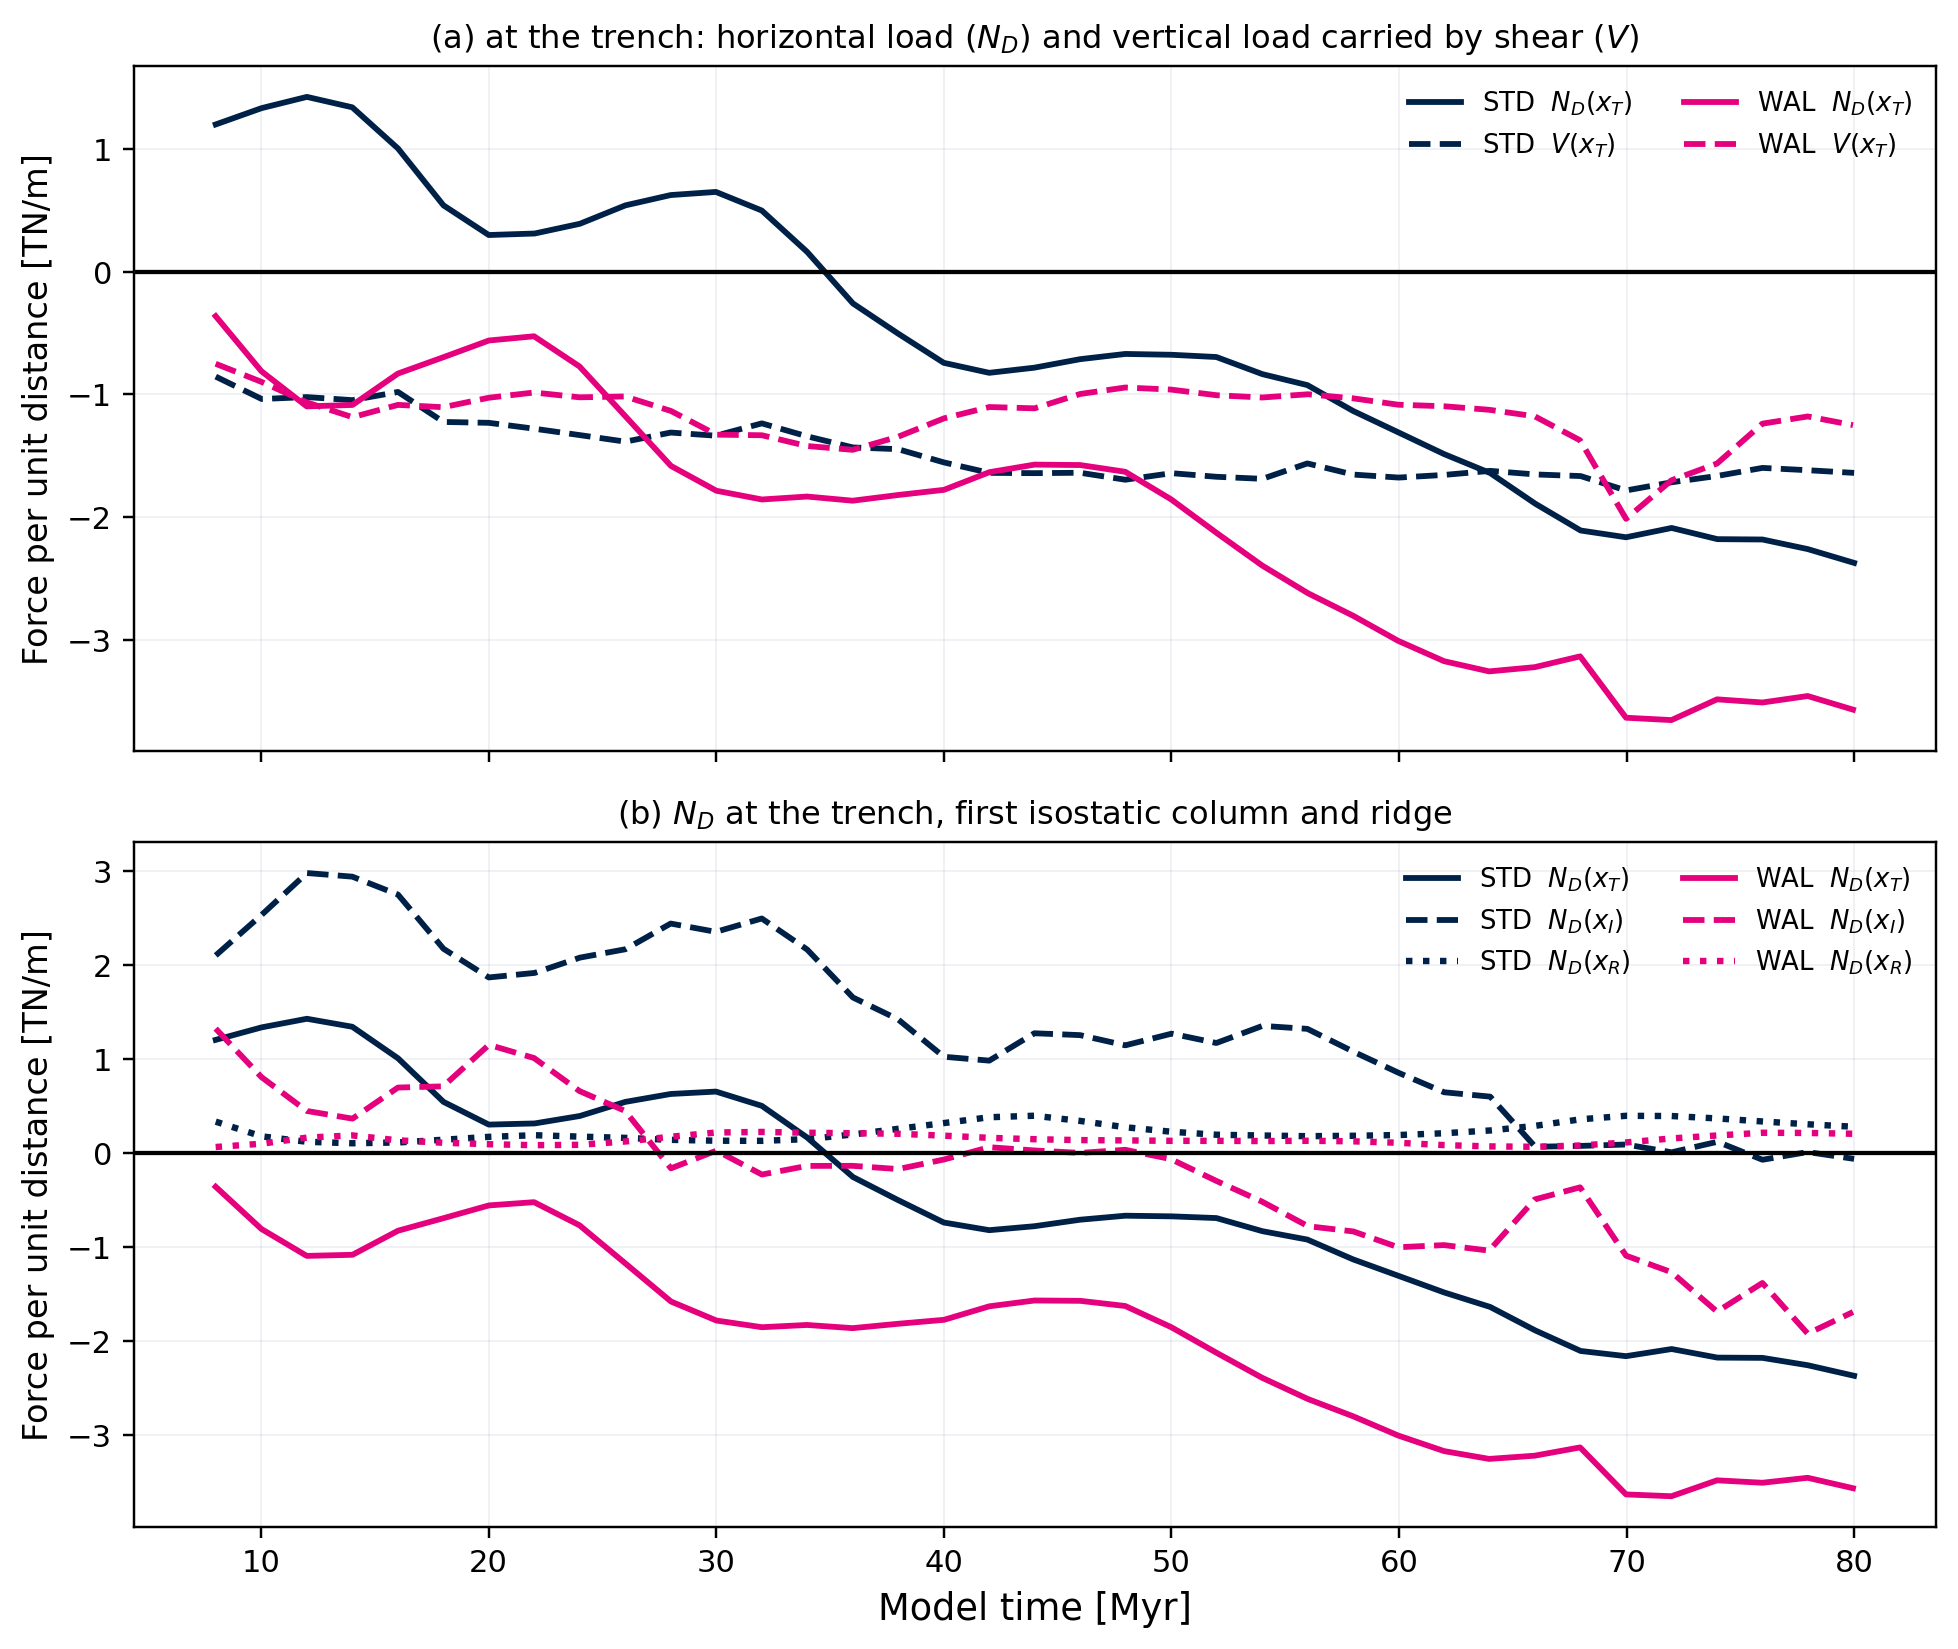
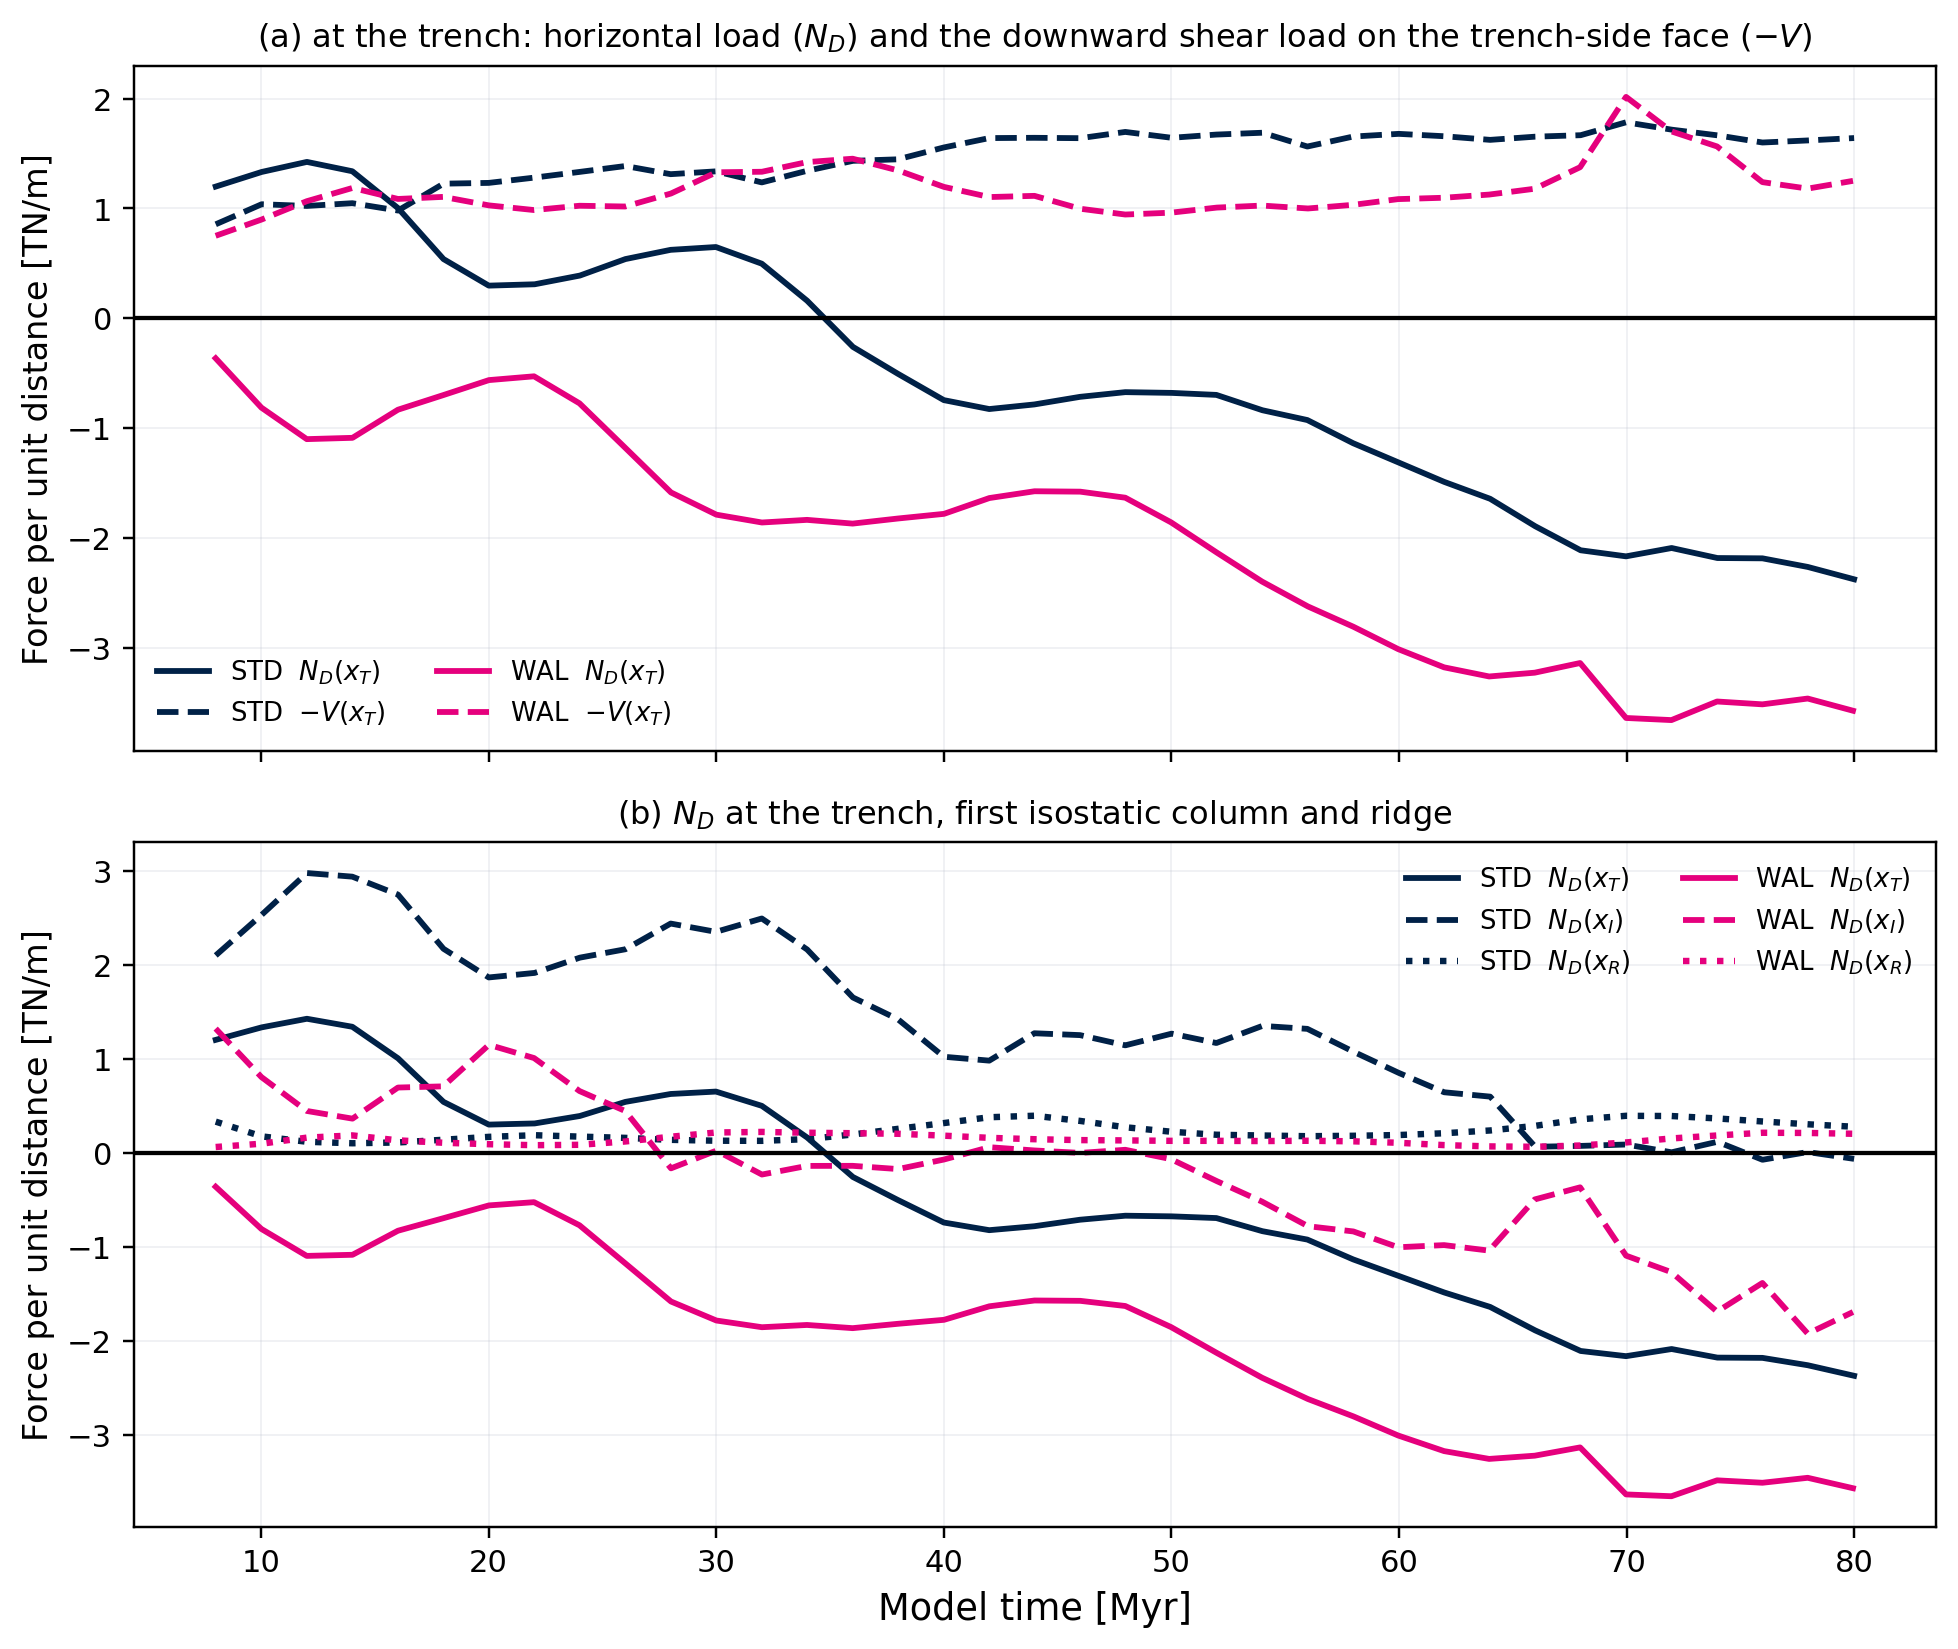
fig_trench_resultants: plot the trench-face shear load (-V), not V
A resultant's sign only means something once paired with the outward
normal of the plane it acts on. In the mirrored analysis frame the
subducting plate lies seaward at x > x_T, so the trailing plate's
trench-side face has outward normal -x and carries -V, positive downward.
That is the quantity with physical content -- the downward load the slab
applies at the trench -- and plotting V itself showed a negative curve
for a downward pull, which reads backwards.

Medians become +1.60 (STD) / +1.11 (WAL) TN/m. The extracted V is
untouched; only the displayed sign changes, and the table rows are now
named shear_load_trench_face_down rather than v_trench, so the two
senses cannot be quoted interchangeably (and no longer collide with
fig_plate_velocities' v_trench, a migration velocity). Both senses are
recorded in the table metadata.

This also squares the display with the companion register, which defines
V as positive at the trench (SYMBOLOGY 7.5). The deeper fix -- un-mirror
the analysis back to the source study's native frame, where the trailing
plate moves in +x and V is positive at the trench by construction -- was
considered and deferred by Dan on 2026-09-21; the docstring records it as
the clean option if the frame is ever revisited.

diff --git a/scripts/fig_trench_resultants.py b/scripts/fig_trench_resultants.py
@@ -6,33 +6,50 @@ column_profiles_cache.resultants(). Consolidated 2026-09-21 per Dan: this
 figure absorbs what fig_nd_trench_ridge carried, and the bending moment
 moves to the SI (fig_trench_moment).
 
-  (a) N_D and V at the TRENCH. Together these show the partition at the
+  (a) N_D and -V at the TRENCH. Together these show the partition at the
       trench column between the vertical load supported by shear stress
-      (V) and the horizontal load transmitted by the slab (N_D) -- the
+      and the horizontal load transmitted by the slab (N_D) -- the
       comparison that matters for the conventional slab-pull expectation.
   (b) N_D at the TRENCH, the FIRST ISOSTATIC COLUMN and the RIDGE. The
       trench curve repeats from (a) deliberately, so the change between
       columns can be read through time.
 
+WHY -V AND NOT V (Dan's ruling, 2026-09-21). V = int tau_zx dz is a
+resultant, and a resultant's sign is only meaningful once paired with the
+outward normal of the plane it acts on (SYMBOLOGY §4.6). In the mirrored
+analysis frame the subducting plate lies seaward at x > x_T, so the
+trailing plate's trench-side face has outward normal -x, and the shear
+traction it carries is -V, positive downward in the z-down frame. That is
+the physically meaningful quantity here -- the downward load the slab
+applies to the trailing plate at the trench -- and it is what is plotted.
+Plotting V itself gives a negative curve for a downward pull, which reads
+backwards.
+
+This also reconciles the display with the companion register, which
+defines V as positive at the trench (SYMBOLOGY §7.5). The repo keeps its
+own V in the frame it extracts in; only the sign shown here is flipped,
+and the table rows are named for the face load, not for V, so nothing
+downstream can quote the two senses interchangeably. The alternative --
+un-mirroring the whole analysis back to the source study's native frame,
+where V is positive at the trench by construction -- was considered and
+deferred on 2026-09-21; it remains the clean fix if the frame is ever
+revisited.
+
 Run medians (t >= 8 Myr): N_D is -0.70 (STD) / -1.83 (WAL) TN/m at the
 trench, +1.27 / -0.14 at the first isostatic column and +0.19 / +0.13 at
-the ridge; V at the trench is -1.60 / -1.11.
+the ridge; the downward shear load at the trench face is +1.60 / +1.11.
 
 Styling per FIGURE_STYLE.md: model by brand colour, quantity or column by
 linestyle.
 
-Register note on V (SYMBOLOGY §7.5): the plotted V is the extracted
-V = int tau_zx dz at the trench column -- the repo's engineering sense,
-which is the NEGATIVE of the companion register's V. Any prose quoting a
-V relation must say which V it means.
-
 DRAFT CAPTION. Stress resultants through the runs for STD (navy) and WAL
 (magenta). (a) At the trench column, the normal-stress-difference
-resultant N_D (solid) and the vertical shear resultant V (dashed): the
-horizontal load transmitted along the plate against the vertical load
-carried by shear. (b) N_D at the trench (solid), the first isostatic
-column (dashed) and the ridge (dotted), showing how the resultant changes
-between columns through time.
+resultant N_D (solid) and the downward shear load carried by the
+trailing plate's trench-side face, -V (dashed): the horizontal load
+transmitted along the plate against the vertical load carried by shear.
+(b) N_D at the trench (solid), the first isostatic column (dashed) and
+the ridge (dotted), showing how the resultant changes between columns
+through time.
 """
 import os, sys
 import numpy as np
@@ -59,17 +76,22 @@ def main():
         t = r['t']
         m = t >= T_MIN_MYR
         kw = dict(color=col, lw=1.9)
+        # the shear load on the trailing plate's trench-side face (outward
+        # normal -x), positive downward -- see the module docstring
+        face_load = -r['v_T']
         axes[0].plot(t[m], r['nd_T'][m] * 1e-12, '-', label=f'{key}  $N_D(x_T)$', **kw)
-        axes[0].plot(t[m], r['v_T'][m] * 1e-12, '--', label=f'{key}  $V(x_T)$', **kw)
+        axes[0].plot(t[m], face_load[m] * 1e-12, '--', label=f'{key}  $-V(x_T)$', **kw)
         axes[1].plot(t[m], r['nd_T'][m] * 1e-12, '-', label=f'{key}  $N_D(x_T)$', **kw)
         axes[1].plot(t[m], r['nd_I'][m] * 1e-12, '--', label=f'{key}  $N_D(x_I)$', **kw)
         axes[1].plot(t[m], r['nd_R'][m] * 1e-12, ':', label=f'{key}  $N_D(x_R)$',
                      color=col, lw=2.1)
         med = lambda a: np.median(a[m]) / 1e12
         print(f'{key}: N_D trench {med(r["nd_T"]):+.2f}, x_I {med(r["nd_I"]):+.2f}, '
-              f'ridge {med(r["nd_R"]):+.2f} TN/m; V trench {med(r["v_T"]):+.2f}')
+              f'ridge {med(r["nd_R"]):+.2f} TN/m; downward shear load at the '
+              f'trench face {med(face_load):+.2f} (extracted V {med(r["v_T"]):+.2f})')
         for name, arr in (('nd_trench', r['nd_T']), ('nd_first_isostatic', r['nd_I']),
-                          ('nd_ridge', r['nd_R']), ('v_trench', r['v_T'])):
+                          ('nd_ridge', r['nd_R']),
+                          ('shear_load_trench_face_down', face_load)):
             a = arr[m] / 1e12
             rows += [(key, f'{name}_median_TNm', f'{np.median(a):.3f}'),
                      (key, f'{name}_q1_TNm', f'{np.percentile(a, 25):.3f}'),
@@ -80,8 +102,8 @@ def main():
                   str(bool((r['nd_R'][m] > 0).all()))),
                  (key, 'abs_v_over_abs_nd_trench_median',
                   f'{np.median(np.abs(v_t) / np.abs(nd_t)):.2f}')]
-    axes[0].set_title('(a) at the trench: horizontal load ($N_D$) and vertical '
-                      'load carried by shear ($V$)', fontsize=10.5)
+    axes[0].set_title('(a) at the trench: horizontal load ($N_D$) and the downward '
+                      'shear load on the trench-side face ($-V$)', fontsize=10.5)
     axes[1].set_title('(b) $N_D$ at the trench, first isostatic column and ridge',
                       fontsize=10.5)
     axes[1].set_xlabel('Model time [Myr]', fontsize=12)
@@ -98,8 +120,13 @@ def main():
                       script='fig_trench_resultants.py',
                       figure='fig_trench_resultants.png', models=('STD', 'WAL'),
                       meta={'zc_km': cpc.ZC_KM, 't_min_Myr': T_MIN_MYR,
-                            'V_sense': 'engineering, int tau_zx dz (negative of the '
-                                       'companion register V)'})
+                            'V_sense': 'extracted V = int tau_zx dz in the mirrored '
+                                       'analysis frame (negative of the companion '
+                                       'register V)',
+                            'shear_load_sense': 'shear_load_trench_face_down = -V, the '
+                                                'traction resultant on the trailing '
+                                                "plate's trench-side face (outward "
+                                                'normal -x), positive DOWNWARD'})
     print('written:', tab)
 
 if __name__ == '__main__':
